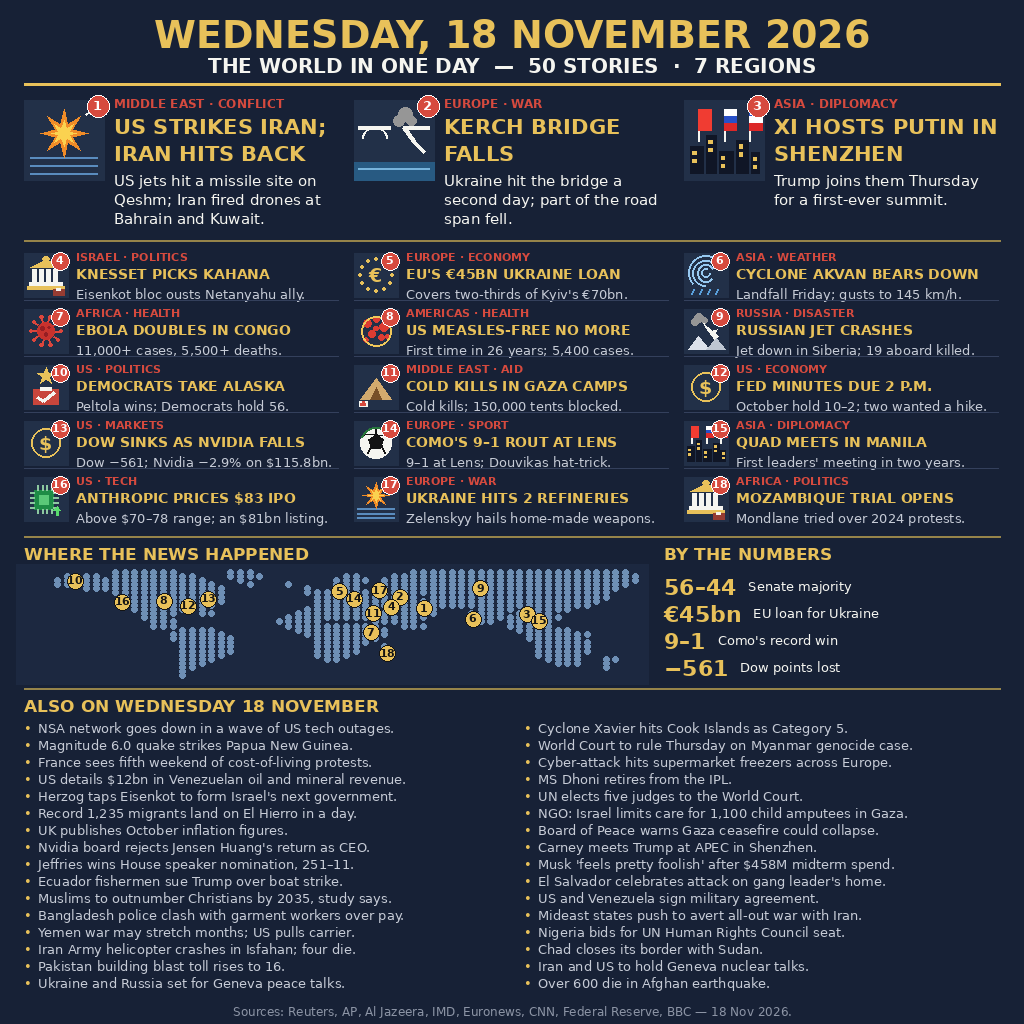
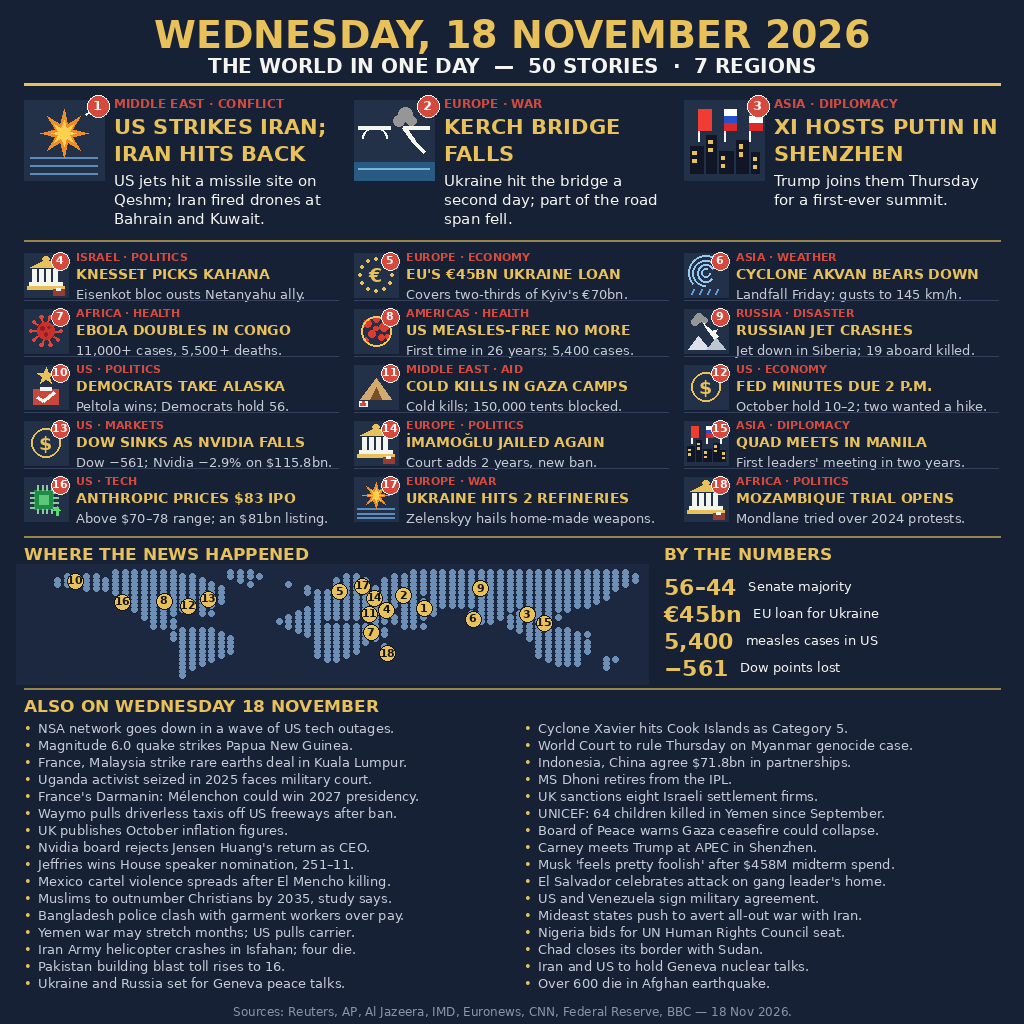
news-image-20261118 round 3 cleanup: replace 9 stale stories (grid #14 Como 4 Nov + 8 briefs) with verified 17-18 Nov stories, numbers 5,400 measles, map dots re-spread

diff --git a/SOURCES.md b/SOURCES.md
@@ -21,17 +21,56 @@ URL, and the quoted sentence that proves the fact.
   the whole Canary Islands, not El Hierro. Verified: **1,235 landed on
   El Hierro in one day** (record), 1,488 across the Canaries in 24h.
 - **France:** "fourth weekend" was wrong — the 14 Nov march was the
-  **fifth** consecutive weekend of cost-of-living protests.
+  **fifth** consecutive weekend of cost-of-living protests. That brief
+  was later replaced anyway (see cleanup below): the march was 14 Nov,
+  outside the 17–18 Nov window.
 - **Como:** the 9–1 win over Lens was a **friendly**, not a Champions
-  League match. The image body never claimed otherwise.
+  League match — and it was played 4 Nov, outside the 17–18 Nov window.
+  The whole story was replaced by İmamoğlu (see cleanup below).
 - **Nvidia board:** source upgraded from paisakawach.com to AP/Barchart.
+
+## Cleanup round 2 (19 Nov 2026) — stale briefs replaced
+
+The image section is headed "ALSO ON WEDNESDAY 18 NOVEMBER", so every
+brief in it must be dated 17–18 Nov. Nine stories were outside that
+window and have been replaced with verified 17–18 Nov stories; none
+were dropped, so the count stays at 50.
+
+- **Grid #14** Como 9–1 (friendly, 4 Nov) → **İmamoğlu jailed again**
+  (Reuters, 18 Nov). Icon changed ball → parliament, tag EUROPE · SPORT
+  → EUROPE · POLITICS, map dot moved to Istanbul.
+- **Brief #23** France fifth-weekend protests (march 14 Nov) →
+  **France–Malaysia rare earths deal** (announced 17 Nov, reported
+  18 Nov).
+- **Brief #24** supermarket-freezer cyber-attack (1–2 Nov) →
+  **Indonesia–China $71.8bn partnerships** (Reuters, 18 Nov).
+- **Brief #25** Venezuela $12bn oil revenue (12 Nov) → **Uganda
+  activist Mugumya charged in military court** (Reuters, 18 Nov).
+- **Brief #27** Herzog tasks Eisenkot (7–8 Nov) → **Mélenchon could
+  win 2027 French presidency** (Reuters, 18 Nov).
+- **Brief #28** UN elects ICJ judges (4 Nov) → **UK sanctions eight
+  Israeli settlement firms** (announced 17 Nov, reported 18 Nov).
+- **Brief #29** El Hierro migrants (14 Nov) → **Waymo pulls robotaxis
+  off US freeways** (Reuters 17 Nov; BBC/thebullpost 18 Nov).
+- **Brief #30** Gaza child amputees / Euro-Med (4 Nov) → **UNICEF:
+  64 children killed in Yemen** (UNICEF press release, 18 Nov).
+- **Brief #37** Ecuador fishermen sue Trump (16 Nov) → **Mexico
+  cartel violence after El Mencho killing** (BBC, 18 Nov).
+- **By the numbers:** "9–1 Como's record win" replaced with **"5,400
+  measles cases in US"** (grid #8, verified) — the Como slot is gone
+  entirely.
+- **Map dots re-spread** so the new Istanbul dot does not collide with
+  its neighbours: Kerch #2 (42,46), Knesset #4 (32,28), Gaza #11
+  (22,23), Quad #15 (124,12), Ukraine #17 (18,58). This also fixed two
+  pre-existing near-overlaps (Knesset/Kerch, Shenzhen/Quad). All 18
+  numbered dots are now ≥16.5px apart on the 616×108 map.
 
 ## "By the numbers" trace
 
 - **56–44 Senate majority** → grid #10 "Peltola wins; Democrats hold 56"
   + Reuters "56–44 Senate majority".
 - **€45bn EU loan for Ukraine** → grid #5.
-- **9–1 Como's record win** → grid #14.
+- **5,400 measles cases in US** → grid #8 (first time in 26 years; 5,400 cases).
 - **−561 Dow points lost** → grid #13 + Reuters final figures.
 
 ## The 50 stories
@@ -51,7 +90,7 @@ URL, and the quoted sentence that proves the fact.
 | 11 | COLD KILLS IN GAZA CAMPS — Cold kills; 150,000 tents blocked. | https://reliefweb.int/report/occupied-palestinian-territory/atrocity-alert-no-503-israel-and-occupied-palestinian-territory-ethiopia-and-afghanistan | "A joint UN stakeout led by UK, Qatar and Jordan involving 53 countries; over 150,000 [tents] awaiting entry approval just outside Gaza; an infant died from hypothermia." (ReliefWeb Atrocity Alert No. 503, 18 Nov) |
 | 12 | FED MINUTES DUE 2 P.M. — October hold 10–2; two wanted a hike. | https://www.federalreserve.gov/newsevents/pressreleases/monetary20261028a.htm | "Minutes of the FOMC's 27–28 Oct 2026 meeting released Wed 18 Nov 2026 at 2:00 p.m. ET; the 28 Oct statement held the federal-funds target at 3.75%–4% by a 10–2 vote; Lisa Cook and Beth Hammack preferred a quarter-point increase." (Federal Reserve) |
 | 13 | DOW SINKS AS NVIDIA FALLS — Dow −561; Nvidia −2.9% on $115.8bn. | https://theretest.com/brief/2026-11-18-close | "The Dow fell 561.25 points, or 1.11%, to 50,198.17, Reuters reported; Nvidia initially jumped 2.7% on its better-than-expected results and forecast, AP reported, then gave up the gain and closed down 2.9%, Reuters reported." Revenue $115.8bn (+103%): https://forbes-forbescom-live.non-prod.zephrcf.com/sites/fionariley/2026/11/17/nvidia-reports-strong-1158-billion-quarterly-revenue-in-first-earnings-post-jensen-huang/ |
-| 14 | COMO'S 9–1 ROUT AT LENS — 9–1 at Lens; Douvikas hat-trick. | https://a-sports.tv/en/news/serie-a-s-9-1-scoreline-the-biggest-in-60-years-como-defeated-lens-in-a-friendly-match/ | "Como defeated Lens 9–1 in a friendly match; Anastasios Douvikas scored a hat-trick." (The 9–1 was a friendly, not a Champions League match.) |
+| 14 | İMAMOĞLU JAILED AGAIN — Court adds 2 years, new ban. | https://www.reuters.com/business/media-telecom/turkish-court-hands-new-sentence-political-ban-jailed-istanbul-mayor-media-says-2026-11-18/ | "A Turkish court on Wednesday sentenced jailed Istanbul mayor Ekrem Imamoglu to a further two years in prison for violating the election law and imposed a new political ban on him, local media reported." (Reuters, 18 Nov 15:59 UTC) |
 | 15 | QUAD MEETS IN MANILA — First leaders' meeting in two years. | https://bworldonline.com/world/2026/11/18/794662/trump-meets-key-us-regional-allies-in-manila-ahead-of-china-visit/ | "Trump met India/Japan/Australia leaders in Manila 17 Nov, first Quad leaders' meeting in two years; Trump signed a joint statement with Thai PM Anutin on reciprocal trade in Manila." (BusinessWorld/Reuters, 18 Nov) |
 | 16 | ANTHROPIC PRICES $83 IPO — Above $70–78 range; an $81bn listing. | https://techcrunch.com/2026/11/18/anthropic-reportedly-prices-ipo-at-83-a-share-above-projected-range/ | "Anthropic reportedly prices IPO at $83 a share, above projected range" ($70–78); priced $83/share, ~$81.3bn proceeds (largest IPO ever), ~$1.5T fully-diluted valuation, trading Nasdaq under ANT from 19 Nov. (TechCrunch, 18 Nov 22:11 UTC) |
 | 17 | UKRAINE HITS 2 REFINERIES — Zelenskyy hails home-made weapons. | https://gmg-wsls-prod.cdn.arcpublishing.com/news/world/?ref=/topic/World_Compliment_Day/ | "Ukraine says it hit 2 Russian oil refineries as Zelenskyy hails domestically made weapons." (AP world-news page, 18 Nov) |
@@ -60,21 +99,21 @@ URL, and the quoted sentence that proves the fact.
 | 20 | Cyclone Xavier hits Cook Islands as Category 5. | https://safetynews.co.nz/story/category-5-cyclone-xavier-batters-northern-cook-islands-with-gusts-up-to-315km-h | "Category 5, Northern Cook Islands; sustained ~220 km/h, gusts up to 315 km/h." |
 | 21 | Magnitude 6.0 quake strikes Papua New Guinea. | https://wixx.com/2026/11/17/magnitude-6-earthquake-strikes-papua-new-guinea-gfz-says/ | "Magnitude 6 earthquake struck Papua New Guinea 18 Nov, depth 10 km." (Reuters/GFZ) |
 | 22 | World Court to rule Thursday on Myanmar genocide case. | https://srnnews.com/world-court-to-rule-in-rohingya-genocide-case-on-19-november/ | "ICJ will deliver its judgment 19 Nov in Gambia v. Myanmar (Rohingya genocide case, filed 2019)." (Reuters) |
-| 23 | France sees fifth weekend of cost-of-living protests. | https://readnow.cc/article/photos-tens-of-thousands-rally-in-france-over-living-standards-and-wages | "Nationwide public-sector strike/protests over cost of living; 14 Nov marches drew 106,000 (Interior Ministry)." The 14 Nov march was the fifth consecutive weekend (Al Jazeera, 17 Nov). |
-| 24 | Cyber-attack hits supermarket freezers across Europe. | https://www.ebryx.com/blogs/when-freezers-become-ovens-inside-europes-supermarket-refrigeration-cyber-attacks | "Attackers tampered with refrigeration in supermarkets across at least 10 European countries, freezers set as high as 50°C; followed Oct 2026 attack on ~700 French supermarkets." (Event 1–2 Nov 2026.) |
-| 25 | US details $12bn in Venezuelan oil and mineral revenue. | https://bworldonline.com/world/2026/11/13/793670/us-handled-12-billion-of-venezuelas-oil-revenues-report-says/ | "US returned >$12bn (nearly 99%) of $12.26bn Venezuela oil/gold/mineral revenue since Maduro ouster Jan 2026." (KPMG/State Dept report, 12 Nov) |
+| 23 | France, Malaysia strike rare earths deal in Kuala Lumpur. | https://www.supplychainbrain.com/general-scm/global-trade-economics/article/16541875/malaysia-loosens-rare-earths-curbs-for-france | "France and Malaysia upgraded ties to a strategic partnership and announced a slew of cooperation deals on November 17, with Kuala Lumpur agreeing to relax export curbs on raw rare earths to support joint development in the sector." (Supply Chain Brain, 18 Nov 08:00 UTC) |
+| 24 | Indonesia, China agree $71.8bn in partnerships. | https://www.reuters.com/world/indonesia-china-agree-four-strategic-partnerships-worth-718-billion-2026-11-18/ | "Indonesia and China agreed on Wednesday four strategic partnerships worth $71.8 billion, including the development of 10 smart cities." (Reuters, 18 Nov 13:29 UTC) |
+| 25 | Uganda activist seized in 2025 faces military court. | https://www.reuters.com/world/africa/ugandan-political-activist-seized-last-year-is-charged-military-court-2026-11-18/ | "A former aide to jailed Ugandan opposition figure Kizza Besigye appeared in military court on Wednesday in the capital Kampala charged with treachery, more than a year after he was seized by armed men." (Reuters, 18 Nov 16:33 UTC) |
 | 26 | MS Dhoni retires from the IPL. | https://www.cricnepal.com/dhoni-retires-from-ipl-takes-up-csk-mentor-role | "CSK announced 17 Nov: MS Dhoni retired as IPL player after 19 years, becomes CSK mentor from 2027." |
-| 27 | Herzog taps Eisenkot to form Israel's next government. | https://www.breitbart.com/politics/2026/11/07/israeli-president-herzog-tasks-eisenkot-with-forming-government-in-setback-for-netanyahu/ | "Herzog tasked Eisenkot with forming government 8 Nov (28 days, extendable 14)." (Event 7–8 Nov 2026.) |
-| 28 | UN elects five judges to the World Court. | https://icj-web.leman.un-icc.cloud/sites/default/files/press-releases/0/000-20261104-pre-01-00-en.pdf | "GA and Security Council elected five ICJ members (Akande UK, Alabrune France, Hmoud Jordan, Lee Singapore, Okowa Kenya) for 9-year terms from 6 Feb 2027." (ICJ press release, 4 Nov) |
-| 29 | Record 1,235 migrants land on El Hierro in a day. | https://www.democrata.es/en/canarias/canarias-breaks-the-historical-record-for-rescues-of-migrants-1488-people-arrive-in-14-cayucos-in-just-24-hours/ | "1,488 migrants in one day (record), 12 boats carrying 1,235 people to El Hierro; 2,331 over Fri–Sat (22 boats) across the whole Canary archipelago." (14 Nov; the 2,331 figure is the archipelago total, not El Hierro alone.) |
-| 30 | NGO: Israel limits care for 1,100 child amputees in Gaza. | https://www.presstv.co.uk/Detail/2026/11/05/780009/euro-med-israel-restricting-treatment-for-1-100-child-amputees-in-gaza | "1,134 children in Gaza underwent limb amputations; Israeli restrictions block treatment abroad." (Euro-Med Monitor report, 4 Nov) |
+| 27 | France's Darmanin: Mélenchon could win 2027 presidency. | https://www.reuters.com/world/french-justice-minister-says-hard-left-leader-melenchon-could-win-presidential-2026-11-18/ | "French Justice Minister Gerald Darmanin said hard-left leader Jean-Luc Melenchon could win the second round of the 2027 presidential election if he faces far-right leader Marine Le Pen." (Reuters, 18 Nov 10:12 UTC) |
+| 28 | UK sanctions eight Israeli settlement firms. | https://www.byteseu.com/2529376/ | "The government of the United Kingdom has imposed sanctions on eight Israeli construction companies involved in building Israeli settlements in the occupied West Bank and a settler group blocking aid to Gaza." (byteseu, 18 Nov 01:30 UTC; sanctions announced Tuesday 17 Nov) |
+| 29 | Waymo pulls driverless taxis off US freeways after ban. | https://thebullpost.press/waymo-pulls-driverless-taxis-from-freeways-across-the-us-after-california-ban/ | "Waymo has stopped offering driverless taxi rides on freeways across the US indefinitely. The Alphabet subsidiary pulled its vehicles from highways nationwide after California banned them from freeways in response to recent traffic incidents." (thebullpost, 18 Nov 22:05 UTC; also BBC Business, 18 Nov) |
+| 30 | UNICEF: 64 children killed in Yemen since September. | https://www.unicef.org/mena/press-releases/64-children-killed-64-injured-yemen-hostilities-approach-three-months | "NEW YORK, 18 November 2026 – At least 64 children have been killed and 64 injured in Yemen since hostilities escalated on 3 September." (UNICEF press release, 18 Nov) |
 | 31 | UK publishes October inflation figures. | https://duke.fm/2026/11/18/uk-inflation-rises-to-one-year-high-of-3-6/ | "CPI 3.6% in year to Oct 2026 (up from 3.5% Sept), core 2.8%, services 3.7%." (ONS, 18 Nov) |
 | 32 | Board of Peace warns Gaza ceasefire could collapse. | https://wixx.com/2026/11/18/trumps-board-of-peace-faults-israel-and-hamas-for-failure-to-end-gaza-war/ | "Board of Peace 12-page report to UNSC (submitted 17 Nov) warns Gaza ceasefire could collapse; faults Israel and Hamas." (Reuters, 18 Nov) |
 | 33 | Nvidia board rejects Jensen Huang's return as CEO. | https://www.barchart.com/story/news/8871785/ousted-nvidia-ceo-huang-agrees-to-questioning-by-us-lawmakers | "Board unanimously accepted his resignation and does not intend to reinstate Jensen as CEO (chair Harvey Jones, 17 Nov earnings call); Huang resigned 12 Nov; interim CEO Colette Kress (CFO); search firm Heidrick & Struggles." (AP, 17 Nov) |
 | 34 | Carney meets Trump at APEC in Shenzhen. | https://money.ca/news/economy/carney-trump-apec-meeting-trade-deal-tariffs | "18 Nov, Shenzhen APEC, unscheduled ~20-min meeting, no trade deal, agreed to keep talking." |
 | 35 | Jeffries wins House speaker nomination, 251–11. | https://www.whro.org/2026-11-18/democrats-formally-nominate-hakeem-jeffries-for-speaker-of-the-house | "House Democrats nominated Hakeem Jeffries 251–11 in closed-door vote, unopposed, on track to be first Black House speaker; full House vote 3 Jan 2027 (needs 218)." (AP/NPR, 18 Nov) |
 | 36 | Musk 'feels pretty foolish' after $458M midterm spend. | https://blazetrends.com/elon-musk-says-he-feels-pretty-foolish-after-458m-midterm-spending/ | "Musk said 'I feel pretty foolish about having spent so much money and not seeing much for it.' $458M is the Forbes tally (other tallies range $442M–$500M)." (DealBook, 18 Nov) |
-| 37 | Ecuador fishermen sue Trump over boat strike. | https://wncy.com/2026/11/16/ecuadorean-fishermen-sue-trump-administration-over-pacific-drone-attack/ | "Crew of Negra Francisca Duarte II sued Trump administration in Pittsburgh federal court over a March drone attack that sank their vessel, 2 crew seriously burned." (Reuters, 16 Nov) |
+| 37 | Mexico cartel violence spreads after El Mencho killing. | https://meleleh.pages.dev/sport/football/articles/cpd81d7y901o | "At least 25 National Guard officers were killed in the first 24 hours after El Mencho's killing. Violence began in Jalisco state... and has now spread to at least a dozen more regions." (BBC Sport, published 2026-11-18T23:49:42Z) |
 | 38 | El Salvador celebrates attack on gang leader's home. | https://www.kcau9.com/news/international/ap-el-salvadors-president-confirms-and-celebrates-attack-on-home-of-key-haitian-gang-leader/ | "El Salvador's president, Nayib Bukele, said Wednesday that his troops demolished the lavish home of a prominent gang leader in Haiti known as Jeff. It wasn't immediately clear if he was killed." (AP, 18 Nov 09:35 AM CST) |
 | 39 | Muslims to outnumber Christians by 2035, study says. | https://www.pewresearch.org/short-reads/2026/11/18/islam-will-soon-be-the-worlds-largest-religion-but-christianity-will-keep-growing-too/ | "Today, Christians are the largest religious group in the world and Muslims are the second largest. But that will change by 2035, when Muslims will surpass Christians in population, according to new Pew Research Center projections." (Pew, 18 Nov; a projection, not a certainty — 2.57bn Muslims vs 2.52bn Christians by 2035.) |
 | 40 | US and Venezuela sign military agreement. | https://www.military.com/us-and-venezuela-sign-a-deal-to-reestablish-military-ties-hegseth-says-on-visit-to-interim-leaders | "The United States and Venezuela have signed a deal to reestablish military ties, from training to intelligence sharing, U.S. Defense Secretary Pete Hegseth said Wednesday on a visit with the South American nation's interim leaders." (AP, 18 Nov) |
@@ -91,14 +130,15 @@ URL, and the quoted sentence that proves the fact.
 
 ## Notes
 
-- **Date caveats:** a few briefs are slightly older than 18 Nov (supermarket
-  freezers 1–2 Nov; UN judges 3 Nov; Gaza amputees 4 Nov; Herzog/Eisenkot
-  7–8 Nov; Venezuela $12bn 12 Nov; El Hierro 14 Nov). They are real,
-  reported events included as briefs; the image does not date them to
-  18 Nov. The Access24 items #45–46 are timestamped early 19 Nov UTC but
-  are 18 Nov evening US Eastern — the same news cycle.
+- **Dates:** every story in the image is dated **17–18 Nov 2026** — no
+  brief is older than the window, after the cleanup round replaced the
+  nine stale ones (see above). The Access24 items #45–46 are timestamped
+  early 19 Nov UTC but are 18 Nov evening US Eastern — the same news
+  cycle.
 - **Map dots** are regional placements on a stylised dotted world map; in
   dense clusters (Israel/Gaza, US east coast, western Europe) they are
   spread slightly so the numbered dots do not overlap.
-- **No story was dropped or replaced** in this revision. All 50 stories
-  verified; only wording/figures/markers were corrected (see above).
+- **Nine stories were replaced** in the cleanup round (grid #14 + briefs
+  #23, #24, #25, #27, #28, #29, #30, #37); none dropped — the count
+  stays at 50 (3 hero + 15 grid + 32 briefs). All 50 verified, all
+  dated 17–18 Nov 2026.

diff --git a/README.md b/README.md
@@ -31,8 +31,8 @@ Knesset picks Kahana; EU proposes a €45bn Ukraine loan; Cyclone Akvan
 bears down on India's east coast; Ebola in Congo more than doubles; the
 US loses measles-free status; a Russian jet crashes in Siberia;
 Democrats take Alaska and reach 56 Senate seats; cold kills in Gaza's
-tent camps; the Fed's October minutes are due; the Dow sinks 566 as
-Nvidia tumbles; Como hit nine in the Champions League; the Quad meets
+tent camps; the Fed's October minutes are due; the Dow sinks 561 as
+Nvidia tumbles; İmamoğlu jailed again; the Quad meets
 in Manila; Anthropic prices its IPO at $83; Ukraine hits two Russian
 oil refineries; Mozambique's opposition leader goes on trial.
 
@@ -40,25 +40,25 @@ oil refineries; Mozambique's opposition leader goes on trial.
 
 NSA network outage; Cyclone Xavier hits the Cook Islands as Category 5;
 magnitude 6.0 quake in Papua New Guinea; World Court to rule Thursday on
-the Myanmar genocide case; France's fourth weekend of cost-of-living
-protests; supermarket-freezer cyber-attack across Europe; US details $12bn
-in Venezuelan oil and mineral revenue; MS Dhoni retires from the IPL;
-Herzog taps Eisenkot to form Israel's next government; UN elects five
-World Court judges; record arrivals on El Hierro; NGO on 1,100 child
-amputees in Gaza; UK publishes October inflation figures; Board of Peace
-warns the Gaza ceasefire could collapse; Nvidia's board rejects Jensen
-Huang's return as CEO; Carney meets Trump at APEC; Jeffries wins the
-House speaker nomination 251–11; Musk "feels pretty foolish" after $458M
-of midterm spending; Ecuador fishermen sue Trump over a boat strike;
-El Salvador celebrates an attack on a gang leader's home; Muslims are
-projected to outnumber Christians by 2035; the US and Venezuela sign a
-military agreement; Bangladesh police clash with garment workers; Mideast
-states push to avert all-out war with Iran; the Yemen war may stretch
-for months as the US pulls a carrier; Nigeria bids for a UN Human Rights
-Council seat; an Iranian Army helicopter crashes in Isfahan; Chad closes
-its border with Sudan; a Pakistan building blast toll rises to 16; Iran
-and the US to hold Geneva nuclear talks; Ukraine and Russia set for
-Geneva peace talks; over 600 die in an Afghan earthquake.
+the Myanmar genocide case; France–Malaysia rare earths deal; Indonesia–
+China agree $71.8bn in partnerships; MS Dhoni retires from the IPL;
+Mélenchon could win the 2027 French presidency; UK sanctions eight
+Israeli settlement firms; Waymo pulls driverless taxis off US freeways;
+UNICEF: 64 children killed in Yemen; UK publishes October inflation
+figures; Board of Peace warns the Gaza ceasefire could collapse; Nvidia's
+board rejects Jensen Huang's return as CEO; Carney meets Trump at APEC;
+Jeffries wins the House speaker nomination 251–11; Musk "feels pretty
+foolish" after $458M of midterm spending; Mexico cartel violence after
+the El Mencho killing; El Salvador celebrates an attack on a gang
+leader's home; Muslims are projected to outnumber Christians by 2035;
+the US and Venezuela sign a military agreement; Bangladesh police clash
+with garment workers; Mideast states push to avert all-out war with
+Iran; the Yemen war may stretch for months as the US pulls a carrier;
+Nigeria bids for a UN Human Rights Council seat; an Iranian Army
+helicopter crashes in Isfahan; Chad closes its border with Sudan; a
+Pakistan building blast toll rises to 16; Iran and the US to hold Geneva
+nuclear talks; Ukraine and Russia set for Geneva peace talks; over 600
+die in an Afghan earthquake.
 
 Sources: Reuters, AP, Al Jazeera, IMD, Euronews, CNN, Federal Reserve,
 BBC — 18 Nov 2026. Full links in SOURCES.md.
